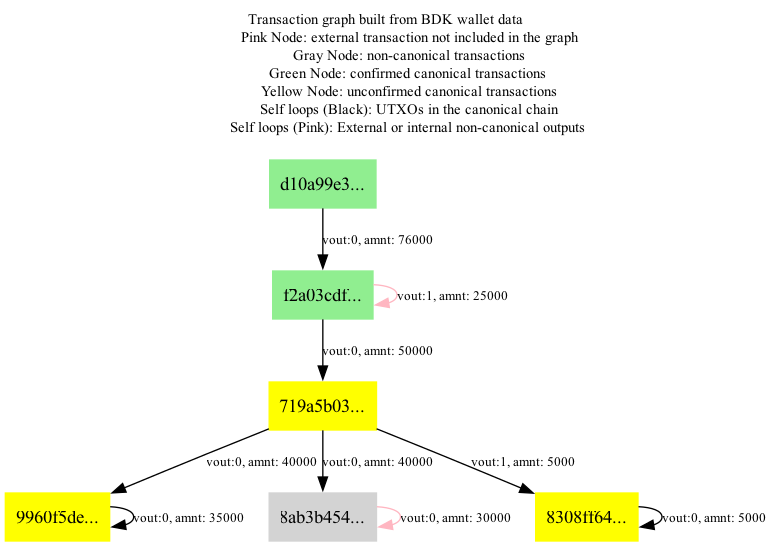
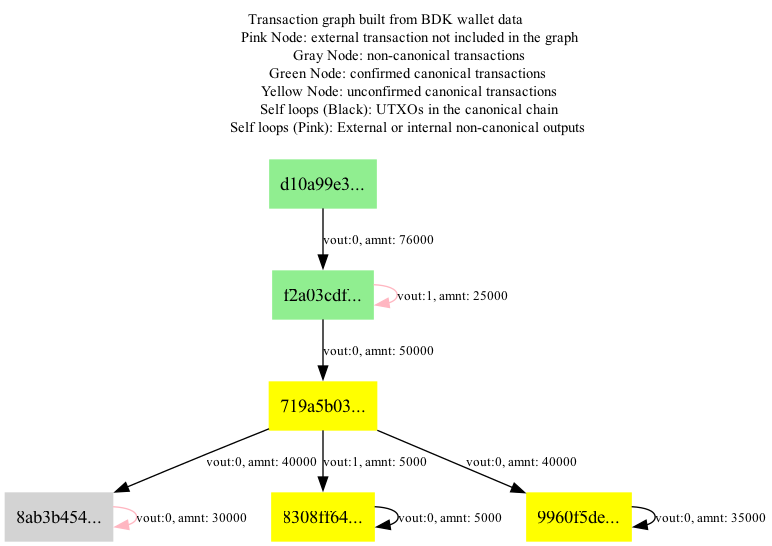
Formatting and docs
- Added LICENSE to the repo
- Formatting to_png function
- Updated documentation in Readme

diff --git a/examples/simple.rs b/examples/simple.rs
@@ -1,7 +1,5 @@
-use bdk_wallet::KeychainKind;
+use bdk_wallet::{KeychainKind};
 use bitcoin::{Amount, OutPoint, Transaction, TxIn, TxOut, absolute, transaction};
-use std::fs;
-use std::process::Command;
 use tx_graph_visualizer::graph::build_view;
 use tx_graph_visualizer::test_utils::*;
 
@@ -103,13 +101,9 @@ fn main() {
 
     insert_tx(&mut wallet, tx_spend_conflict);
 
-    let tx_graph_vis = build_view(&wallet.tx_graph(), &wallet).to_dot();
-    fs::write("./examples/simple_graph.dot", tx_graph_vis).unwrap();
-    Command::new("dot")
-        .arg("-Tpng")
-        .arg("./examples/simple_graph.dot")
-        .arg("-o")
-        .arg("./examples/simple_graph.png")
-        .output()
-        .expect("Failed to execute dot command");
+    let tx_graph_vis = build_view(&wallet);
+    //  Export the graph to dot
+    tx_graph_vis.to_dot();
+    //  Export the graph to png, graphvis is required
+    tx_graph_vis.to_png().expect("png was not exported successfully!");
 }

diff --git a/src/graph/builder.rs b/src/graph/builder.rs
@@ -1,10 +1,11 @@
 use crate::graph::view::{TxEdgeView, TxGraphView, TxNodeView};
-use bdk_chain::{CanonicalizationParams, ChainOracle, TxGraph};
+use bdk_chain::{CanonicalizationParams, ChainOracle};
 use bdk_wallet::Wallet;
 use bitcoin::{OutPoint, Txid};
 use std::collections::HashSet;
 
-pub fn build_view(tx_graph: &TxGraph, wallet: &Wallet) -> TxGraphView {
+pub fn build_view(wallet: &Wallet) -> TxGraphView {
+    let tx_graph = wallet.tx_graph();
     let mut nodes = Vec::new();
     let mut edges = Vec::new();
     let full_txs_vec = tx_graph.full_txs().collect::<Vec<_>>();

diff --git a/src/export/mod.rs b/src/export/mod.rs
@@ -1,1 +1,1 @@
-mod dot;
+mod export;

diff --git a/ReadMe.md b/ReadMe.md
@@ -12,6 +12,22 @@ This is a simple tool to visualize the transaction graph of a bdk wallet. The re
 </p>
 
 ---
+
+### Add to Your Project
+
+Add this to your `Cargo.toml`:
+
+```toml
+[dependencies]
+tx_graph_visualizer = { git = "https://github.com/qatkk/tx_graph_visualizer" }
+```
+
+---
+
+## Quick Start
+
+### Run the Example
+
 Currently the only supported visualization is .dot for graphviz package. To export the images of the graphs please install graphviz.
 For mac:
 ```bash
@@ -27,3 +43,32 @@ To run the example and see the corresponding graph run the following commands:
     cargo build 
     cargo --example simple
 ```
+
+<!-- ### Use in Your Code
+
+
+---
+
+## Use Cases -->
+
+---
+
+## Rendering Formats
+
+Once you have a `.dot` file, render it in multiple formats:
+
+```bash
+# PNG (recommended for most use cases)
+dot -Tpng graph.dot -o graph.png
+
+# SVG (scalable, good for web)
+dot -Tsvg graph.dot -o graph.svg
+
+# PDF (professional reports)
+dot -Tpdf graph.dot -o graph.pdf
+
+# ASCII (terminal viewing)
+dot -Tascii graph.dot
+```
+
+---